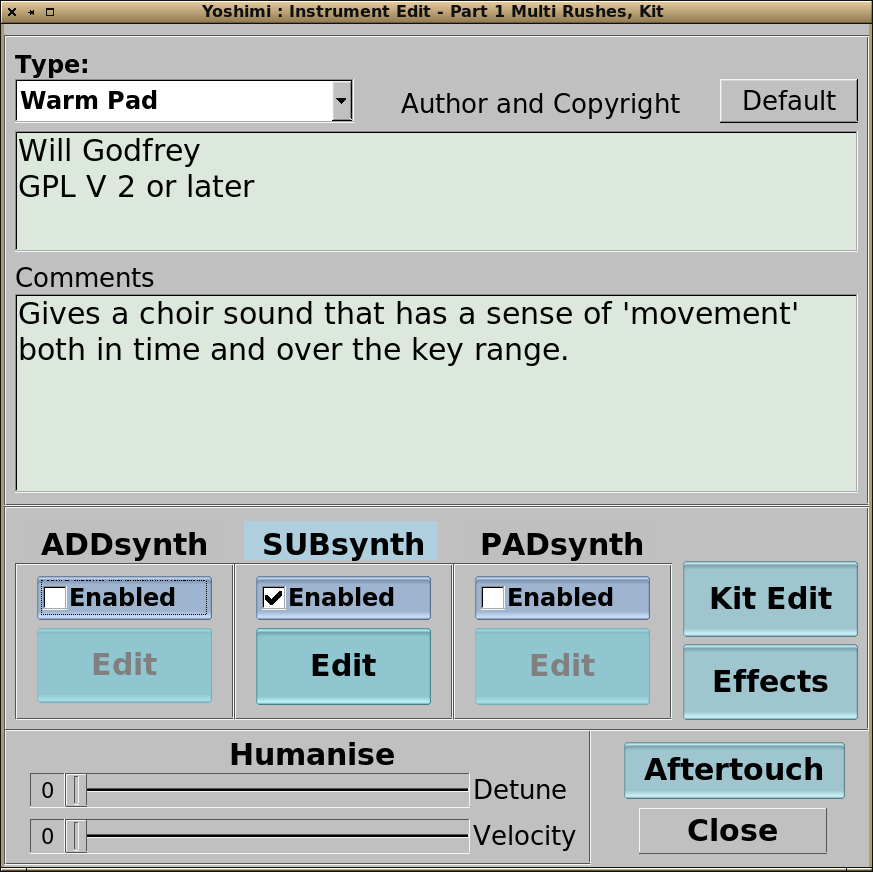
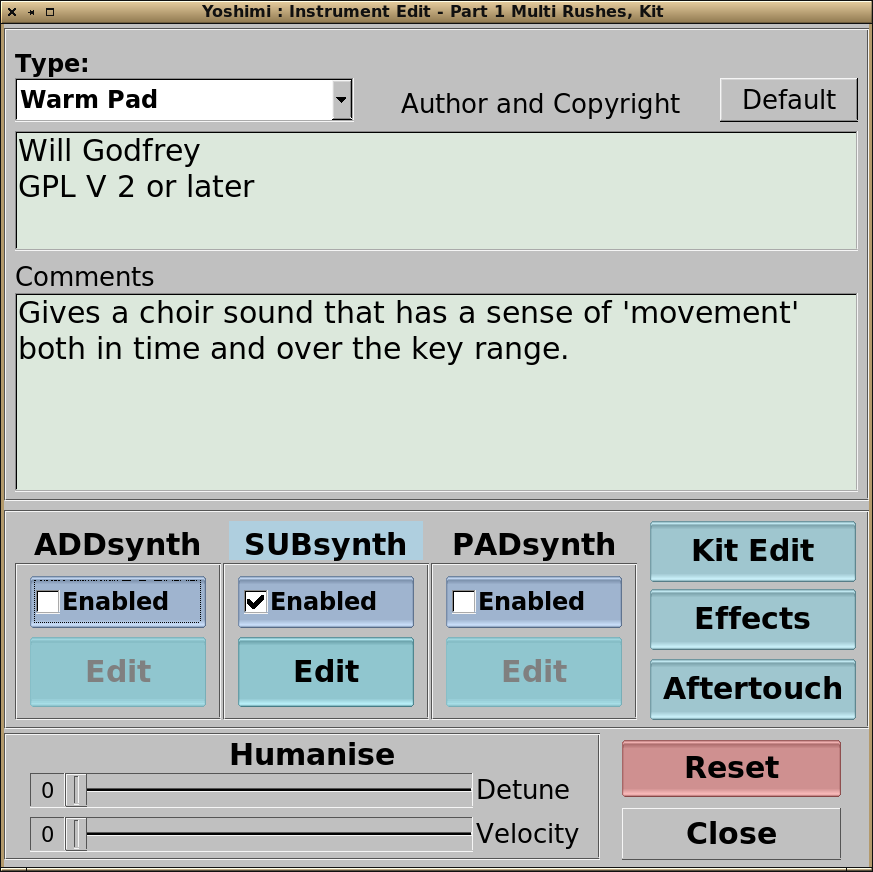
Added instrument reset button to part edit window andRe-arranged the window's layout to accomode this. Also updated the HTML user guide
Changed 'defaultPart' label to more appropriate 'defaultInstrument'

diff --git a/doc/yoshimi_user_guide/part/part.html b/doc/yoshimi_user_guide/part/part.html
@@ -99,11 +99,11 @@
     <a id="edit"></a>
     <p>
     <img src="images/edit.png" alt="Part Edit Window" class="image">
-    The <em>Edit</em> button mentioned above opens this window for full access to all part editing.
+    The <em>Edit</em> button mentioned above opens this window for full access to all part <em>instrument</em> editing.
     Enabling and disabling the engines is done from here, along with access to them via the respective 'Edit' buttons.
 
     <h3>Editor controls</h3>
-    <b>Default</b> Clicking on this button will fill the copyright field with a saved entry (if it exists), while holding down <em>Ctrl</em> at the same time will save the currently contents of the field as the default.
+    <b>Default</b> Clicking on this button will fill the copyright field with a saved entry (if it exists). To store a default message, fill in the entry manually, then while holding down <em>Ctrl</em> click on this button.
     <br><br>
     <b>Author and Copyright</b> (text entry) A free text field for you to enter whatever copyright infomation you like.
     <br><br>
@@ -117,7 +117,7 @@
     <br><br>
     <b>Edit</b> (SubSynth) Opens the SubSynth editing window.
     <br><br>
-    <b>Enabled</b> (PadSynth) Makes this engine active or inactive. A first-time enabling will temporarily stop sound from that part, as the PadSynth wavetable has to be created.
+    <b>Enabled</b> (PadSynth) Makes this engine active or inactive. If the PadSynth build mode is set to 'Muted' making changes to this may cause disruption to the sound while the PadSynth wavetable is being created.
     <br><br>
     <b>Edit</b> (PadSynth) Opens the PadSynth editing window.
     <br><br>
@@ -125,11 +125,13 @@
     <br><br>
     <b>Effects</b> Opens the Effects window for editing.
     <br><br>
+    <b>Aftertouch</b> Opens the <a href="#aftertouch">Aftertouch</a> editing window.
+    <br><br>
     <b>Detune</b> (Humanise) This control enables you to set a small random detune of the entire part.
     <br><br>
     <b>Velocity</b> (Humanise) With this control you can set a random whole part attenuation.
     <br><br>
-    <b>Aftertouch</b> Opens the <a href="#aftertouch">Aftertouch</a> editing window.
+    <b>Reset</b> This button reverts the part's instrument to the default 'Simple Sound'. It doesn't change the other part level settings (at the bottom of the main window).
     </p>
     <a href="#top" class="up">Back to top</a>
     <img src="../images/boundry.png" alt="divider" class="wideline">

diff --git a/src/Interface/InterChange.cpp b/src/Interface/InterChange.cpp
@@ -861,11 +861,11 @@ int InterChange::indirectMain(CommandBlock *getData, SynthEngine *synth, unsigne
         case MAIN::control::loadFileFromList:
             break; // do nothing here
 
-        case MAIN::control::defaultPart: // clear part
+        case MAIN::control::defaultInstrument: // clear part's instrument
             if (write)
             {
                 undoRedoClear();
-                doClearPart(value);
+                doClearPartInstrument(value);
                 synth->getRuntime().sessionSeen[TOPLEVEL::XML::Instrument] = false;
                 getData->data.source &= ~TOPLEVEL::action::lowPrio;
             }
@@ -1945,7 +1945,7 @@ void InterChange::returns(CommandBlock *getData)
 }
 
 
-void InterChange::doClearPart(int npart)
+void InterChange::doClearPartInstrument(int npart)
 {
     synth->part[npart]->defaultsinstrument();
     synth->part[npart]->cleanup();
@@ -3291,7 +3291,7 @@ void InterChange::commandMain(CommandBlock *getData)
             getData->data.source = TOPLEVEL::action::noAction;
             break;
 
-        case MAIN::control::defaultPart: // doClearPart
+        case MAIN::control::defaultInstrument: // clear part's instrument
             if (write)
             {
                 synth->partonoffWrite(value_int, -1);

diff --git a/src/CLI/CmdInterpreter.cpp b/src/CLI/CmdInterpreter.cpp
@@ -5310,7 +5310,7 @@ int CmdInterpreter::commandPart(Parser& input, unsigned char controlType)
     {
         if (controlType != TOPLEVEL::type::Write)
             return REPLY::writeOnly_msg;
-        return sendNormal(synth, 0, npart, controlType, MAIN::control::defaultPart, TOPLEVEL::section::main);
+        return sendNormal(synth, 0, npart, controlType, MAIN::control::defaultInstrument, TOPLEVEL::section::main);
     }
 
     if (input.matchnMove(2, "program") || input.matchnMove(1, "instrument"))
@@ -6090,7 +6090,7 @@ int CmdInterpreter::commandReadnSet(Parser& input, unsigned char controlType)
         if (!readControl(synth, 0, PART::control::enable, value))
             return REPLY::inactive_msg;
 
-        return sendNormal(synth, 0, value, controlType, MAIN::control::defaultPart, TOPLEVEL::section::main);
+        return sendNormal(synth, 0, value, controlType, MAIN::control::defaultInstrument, TOPLEVEL::section::main);
     }
     return REPLY::op_msg;
 }

diff --git a/src/Interface/InterChange.h b/src/Interface/InterChange.h
@@ -82,7 +82,7 @@ class InterChange : private DataText
         void mediate(void);
         void historyActionCheck(CommandBlock *getData);
         void returns(CommandBlock *getData);
-        void doClearPart(int npart);
+        void doClearPartInstrument(int npart);
         bool commandSend(CommandBlock *getData);
         float readAllData(CommandBlock *getData);
         void resolveReplies(CommandBlock *getData);

diff --git a/src/Interface/Data2Text.cpp b/src/Interface/Data2Text.cpp
@@ -1296,7 +1296,7 @@ string DataText::resolveMain(CommandBlock *getData, bool addValue)
             contstr = "Load Recent" + textMsgBuffer.fetch(value_int);
             break;
 
-        case MAIN::control::defaultPart:
+        case MAIN::control::defaultInstrument:
             showValue = false;
             contstr = "Part " + to_string(value_int + 1) + " cleared";
             break;

diff --git a/src/Misc/SynthEngine.cpp b/src/Misc/SynthEngine.cpp
@@ -3468,7 +3468,7 @@ float SynthEngine::getLimits(CommandBlock *getData)
             def = 115;
             max = 119;
             break;
-        case MAIN::control::defaultPart:
+        case MAIN::control::defaultInstrument:
             def = 0;
             max = Runtime.NumAvailableParts -1;
             break;

diff --git a/src/globals.h b/src/globals.h
@@ -565,7 +565,7 @@ namespace MAIN // usage MAIN::control::volume
         saveNamedState,
         readLastSeen,
         loadFileFromList,
-        defaultPart,
+        defaultInstrument,
         exportPadSynthSamples,
         masterReset,
         masterResetAndMlearn,

diff --git a/src/Misc/ConfBuild.h b/src/Misc/ConfBuild.h
@@ -2,4 +2,4 @@
     ConfBuild.h
 */
 
-#define BUILD_NUMBER 2140
+#define BUILD_NUMBER 2141
